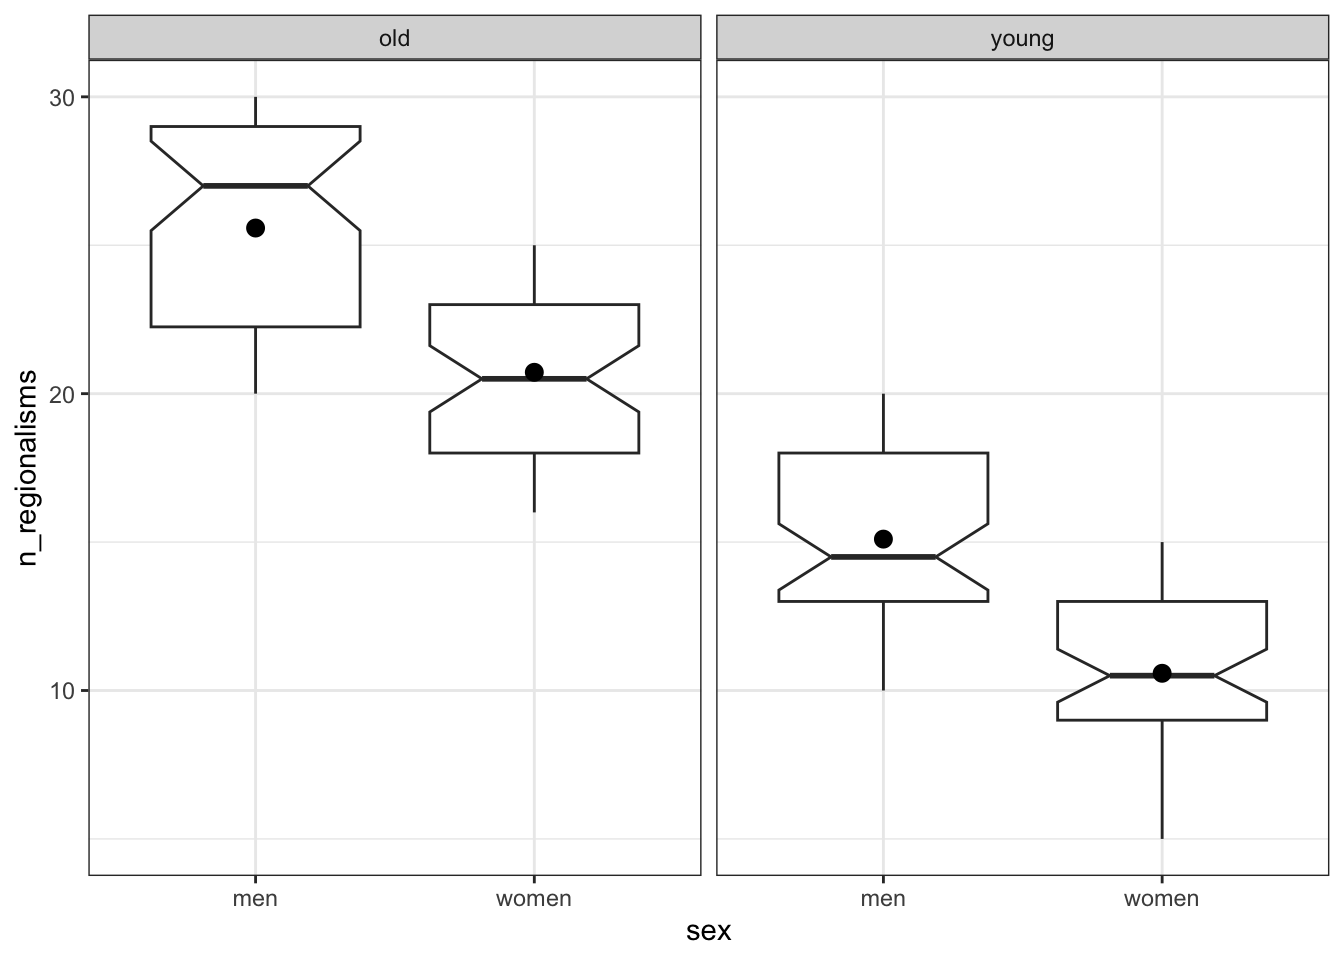
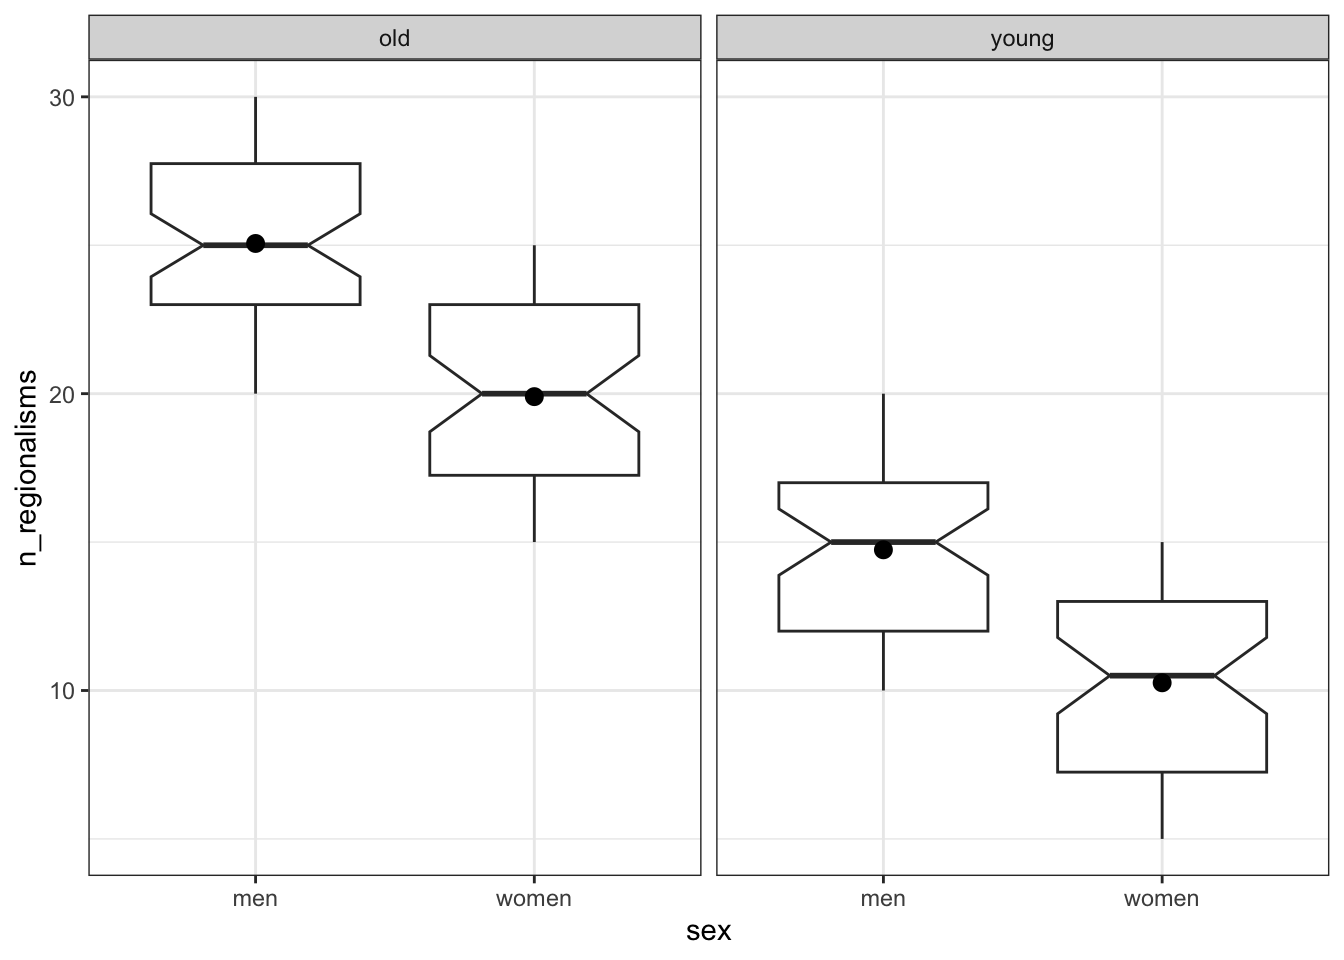
link

diff --git a/docs/lessons/interaction.html b/docs/lessons/interaction.html
@@ -335,6 +335,12 @@ pre > code.sourceCode > span > a:first-child::before { text-decoration: underlin
  <span class="menu-text">Interaction between explanatory variables</span></a>
   </div>
 </li>
+          <li class="sidebar-item">
+  <div class="sidebar-item-container"> 
+  <a href="../lessons/transform.html" class="sidebar-item-text sidebar-link">
+ <span class="menu-text">Transform continuous variables</span></a>
+  </div>
+</li>
       </ul>
   </li>
     </ul>
@@ -600,24 +606,24 @@ lm(formula = n_regionalisms ~ age_group + sex + age_group:sex,
 
 Residuals:
    Min     1Q Median     3Q    Max 
- -5.58  -2.58  -0.10   2.54   4.90 
+ -5.26  -2.74   0.10   2.74   5.26 
 
 Coefficients:
                         Estimate Std. Error t value Pr(&gt;|t|)    
-(Intercept)              25.5800     0.4507  56.752  &lt; 2e-16 ***
-age_groupyoung          -10.4800     0.6374 -16.441  &lt; 2e-16 ***
-sexwomen                 -4.8600     0.6374  -7.624 1.03e-12 ***
-age_groupyoung:sexwomen   0.3400     0.9015   0.377    0.706    
+(Intercept)              25.0600     0.4388  57.116  &lt; 2e-16 ***
+age_groupyoung          -10.3200     0.6205 -16.632  &lt; 2e-16 ***
+sexwomen                 -5.1600     0.6205  -8.316 1.51e-14 ***
+age_groupyoung:sexwomen   0.6800     0.8775   0.775    0.439    
 ---
 Signif. codes:  0 '***' 0.001 '**' 0.01 '*' 0.05 '.' 0.1 ' ' 1
 
-Residual standard error: 3.187 on 196 degrees of freedom
-Multiple R-squared:  0.7632,    Adjusted R-squared:  0.7596 
-F-statistic: 210.5 on 3 and 196 DF,  p-value: &lt; 2.2e-16</code></pre>
+Residual standard error: 3.102 on 196 degrees of freedom
+Multiple R-squared:  0.7652,    Adjusted R-squared:  0.7616 
+F-statistic: 212.9 on 3 and 196 DF,  p-value: &lt; 2.2e-16</code></pre>
 </div>
 <div class="sourceCode cell-code" id="cb23"><pre class="sourceCode r code-with-copy"><code class="sourceCode r"><span id="cb23-1"><a href="#cb23-1" aria-hidden="true" tabindex="-1"></a><span class="fu">AIC</span>(m3)</span></code><button title="Copy to Clipboard" class="code-copy-button"><i class="bi"></i></button></pre></div>
 <div class="cell-output cell-output-stdout">
-<pre><code>[1] 1037.184</code></pre>
+<pre><code>[1] 1026.414</code></pre>
 </div>
 </div>
 <p>The interaction term was <strong>not</strong> selected as making a significant contribution to the prediction of the number of regionalisms in this second set of fictitious data.</p>

diff --git a/docs/lessons/transform.html b/docs/lessons/transform.html
@@ -108,9 +108,7 @@ pre > code.sourceCode > span > a:first-child::before { text-decoration: underlin
       <button type="button" class="quarto-btn-toggle btn" data-bs-toggle="collapse" data-bs-target="#quarto-sidebar,#quarto-sidebar-glass" aria-controls="quarto-sidebar" aria-expanded="false" aria-label="Toggle sidebar navigation" onclick="if (window.quartoToggleHeadroom) { window.quartoToggleHeadroom(); }">
         <i class="bi bi-layout-text-sidebar-reverse"></i>
       </button>
-      <nav class="quarto-page-breadcrumbs" aria-label="breadcrumb"><ol class="breadcrumb"><li class="breadcrumb-item">
-      Lesson Plans for Linguistic Data Analysis with R
-      </li></ol></nav>
+      <nav class="quarto-page-breadcrumbs" aria-label="breadcrumb"><ol class="breadcrumb"><li class="breadcrumb-item"><a href="../lessons/t-test.html">Inferential stats</a></li><li class="breadcrumb-item"><a href="../lessons/transform.html">Transform continuous variables</a></li></ol></nav>
       <a class="flex-grow-1" role="button" data-bs-toggle="collapse" data-bs-target="#quarto-sidebar,#quarto-sidebar-glass" aria-controls="quarto-sidebar" aria-expanded="false" aria-label="Toggle sidebar navigation" onclick="if (window.quartoToggleHeadroom) { window.quartoToggleHeadroom(); }">      
       </a>
       <button type="button" class="btn quarto-search-button" aria-label="" onclick="window.quartoOpenSearch();">
@@ -333,6 +331,12 @@ pre > code.sourceCode > span > a:first-child::before { text-decoration: underlin
   <div class="sidebar-item-container"> 
   <a href="../lessons/interaction.html" class="sidebar-item-text sidebar-link">
  <span class="menu-text">Interaction between explanatory variables</span></a>
+  </div>
+</li>
+          <li class="sidebar-item">
+  <div class="sidebar-item-container"> 
+  <a href="../lessons/transform.html" class="sidebar-item-text sidebar-link active">
+ <span class="menu-text">Transform continuous variables</span></a>
   </div>
 </li>
       </ul>

diff --git a/docs/lessons/anova.html b/docs/lessons/anova.html
@@ -335,6 +335,12 @@ pre > code.sourceCode > span > a:first-child::before { text-decoration: underlin
  <span class="menu-text">Interaction between explanatory variables</span></a>
   </div>
 </li>
+          <li class="sidebar-item">
+  <div class="sidebar-item-container"> 
+  <a href="../lessons/transform.html" class="sidebar-item-text sidebar-link">
+ <span class="menu-text">Transform continuous variables</span></a>
+  </div>
+</li>
       </ul>
   </li>
     </ul>

diff --git a/docs/lessons/chi-square.html b/docs/lessons/chi-square.html
@@ -335,6 +335,12 @@ pre > code.sourceCode > span > a:first-child::before { text-decoration: underlin
  <span class="menu-text">Interaction between explanatory variables</span></a>
   </div>
 </li>
+          <li class="sidebar-item">
+  <div class="sidebar-item-container"> 
+  <a href="../lessons/transform.html" class="sidebar-item-text sidebar-link">
+ <span class="menu-text">Transform continuous variables</span></a>
+  </div>
+</li>
       </ul>
   </li>
     </ul>

diff --git a/docs/lessons/create_freq.html b/docs/lessons/create_freq.html
@@ -333,6 +333,12 @@ pre > code.sourceCode > span > a:first-child::before { text-decoration: underlin
  <span class="menu-text">Interaction between explanatory variables</span></a>
   </div>
 </li>
+          <li class="sidebar-item">
+  <div class="sidebar-item-container"> 
+  <a href="../lessons/transform.html" class="sidebar-item-text sidebar-link">
+ <span class="menu-text">Transform continuous variables</span></a>
+  </div>
+</li>
       </ul>
   </li>
     </ul>

diff --git a/docs/lessons/linear_regression.html b/docs/lessons/linear_regression.html
@@ -335,6 +335,12 @@ pre > code.sourceCode > span > a:first-child::before { text-decoration: underlin
  <span class="menu-text">Interaction between explanatory variables</span></a>
   </div>
 </li>
+          <li class="sidebar-item">
+  <div class="sidebar-item-container"> 
+  <a href="../lessons/transform.html" class="sidebar-item-text sidebar-link">
+ <span class="menu-text">Transform continuous variables</span></a>
+  </div>
+</li>
       </ul>
   </li>
     </ul>

diff --git a/docs/lessons/outliers.html b/docs/lessons/outliers.html
@@ -335,6 +335,12 @@ pre > code.sourceCode > span > a:first-child::before { text-decoration: underlin
  <span class="menu-text">Interaction between explanatory variables</span></a>
   </div>
 </li>
+          <li class="sidebar-item">
+  <div class="sidebar-item-container"> 
+  <a href="../lessons/transform.html" class="sidebar-item-text sidebar-link">
+ <span class="menu-text">Transform continuous variables</span></a>
+  </div>
+</li>
       </ul>
   </li>
     </ul>

diff --git a/docs/lessons/programming_basics.html b/docs/lessons/programming_basics.html
@@ -333,6 +333,12 @@ pre > code.sourceCode > span > a:first-child::before { text-decoration: underlin
  <span class="menu-text">Interaction between explanatory variables</span></a>
   </div>
 </li>
+          <li class="sidebar-item">
+  <div class="sidebar-item-container"> 
+  <a href="../lessons/transform.html" class="sidebar-item-text sidebar-link">
+ <span class="menu-text">Transform continuous variables</span></a>
+  </div>
+</li>
       </ul>
   </li>
     </ul>

diff --git a/docs/lessons/python.html b/docs/lessons/python.html
@@ -333,6 +333,12 @@ pre > code.sourceCode > span > a:first-child::before { text-decoration: underlin
  <span class="menu-text">Interaction between explanatory variables</span></a>
   </div>
 </li>
+          <li class="sidebar-item">
+  <div class="sidebar-item-container"> 
+  <a href="../lessons/transform.html" class="sidebar-item-text sidebar-link">
+ <span class="menu-text">Transform continuous variables</span></a>
+  </div>
+</li>
       </ul>
   </li>
     </ul>

diff --git a/docs/lessons/quanteda.html b/docs/lessons/quanteda.html
@@ -333,6 +333,12 @@ pre > code.sourceCode > span > a:first-child::before { text-decoration: underlin
  <span class="menu-text">Interaction between explanatory variables</span></a>
   </div>
 </li>
+          <li class="sidebar-item">
+  <div class="sidebar-item-container"> 
+  <a href="../lessons/transform.html" class="sidebar-item-text sidebar-link">
+ <span class="menu-text">Transform continuous variables</span></a>
+  </div>
+</li>
       </ul>
   </li>
     </ul>

diff --git a/docs/lessons/t-test.html b/docs/lessons/t-test.html
@@ -335,6 +335,12 @@ pre > code.sourceCode > span > a:first-child::before { text-decoration: underlin
  <span class="menu-text">Interaction between explanatory variables</span></a>
   </div>
 </li>
+          <li class="sidebar-item">
+  <div class="sidebar-item-container"> 
+  <a href="../lessons/transform.html" class="sidebar-item-text sidebar-link">
+ <span class="menu-text">Transform continuous variables</span></a>
+  </div>
+</li>
       </ul>
   </li>
     </ul>

diff --git a/docs/lessons/visualization.html b/docs/lessons/visualization.html
@@ -333,6 +333,12 @@ pre > code.sourceCode > span > a:first-child::before { text-decoration: underlin
  <span class="menu-text">Interaction between explanatory variables</span></a>
   </div>
 </li>
+          <li class="sidebar-item">
+  <div class="sidebar-item-container"> 
+  <a href="../lessons/transform.html" class="sidebar-item-text sidebar-link">
+ <span class="menu-text">Transform continuous variables</span></a>
+  </div>
+</li>
       </ul>
   </li>
     </ul>
